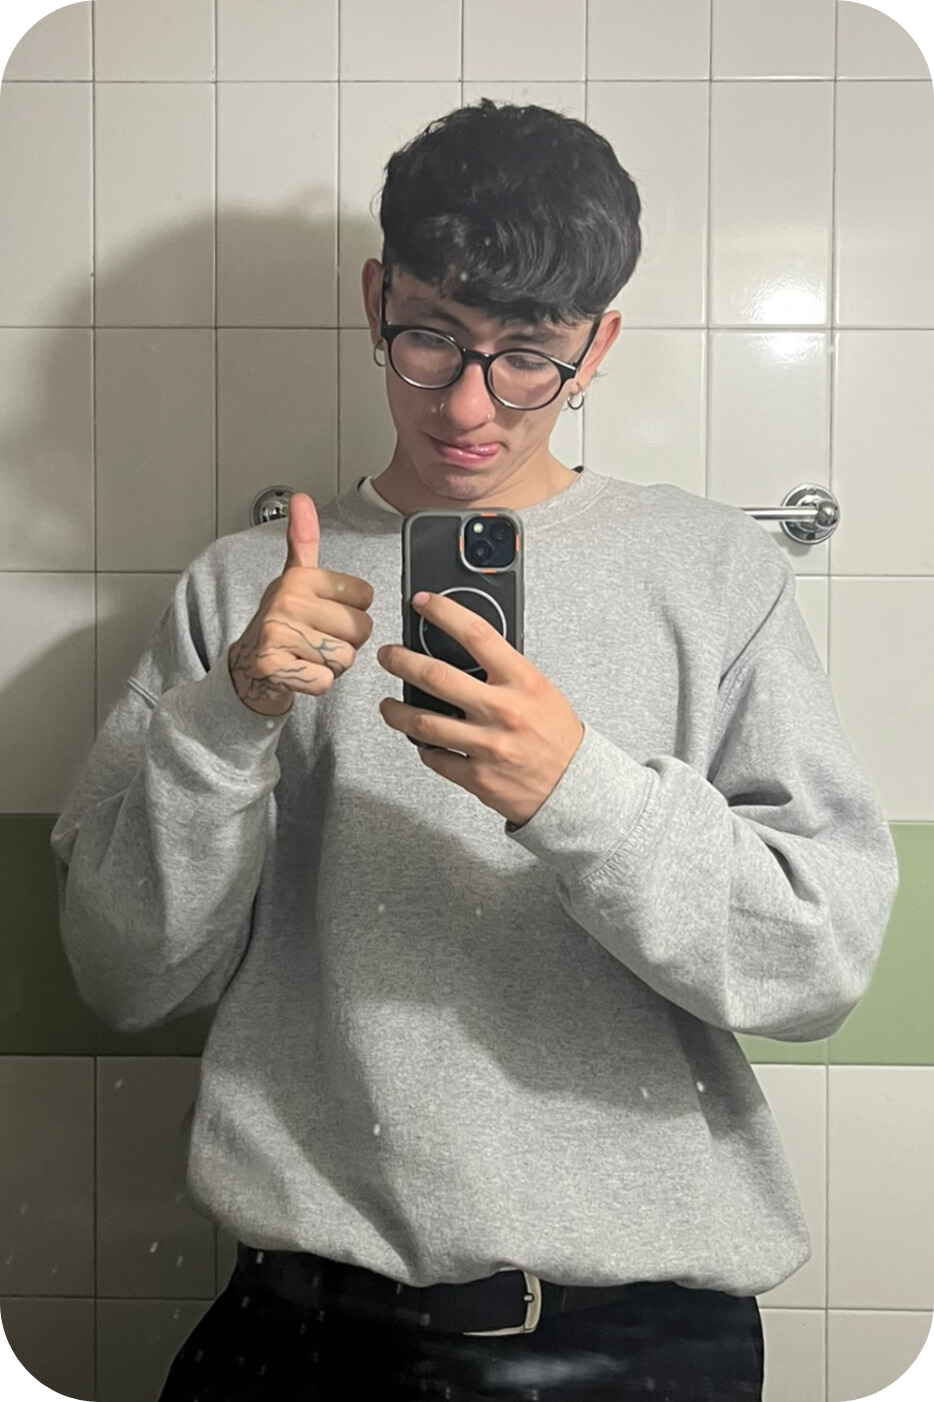
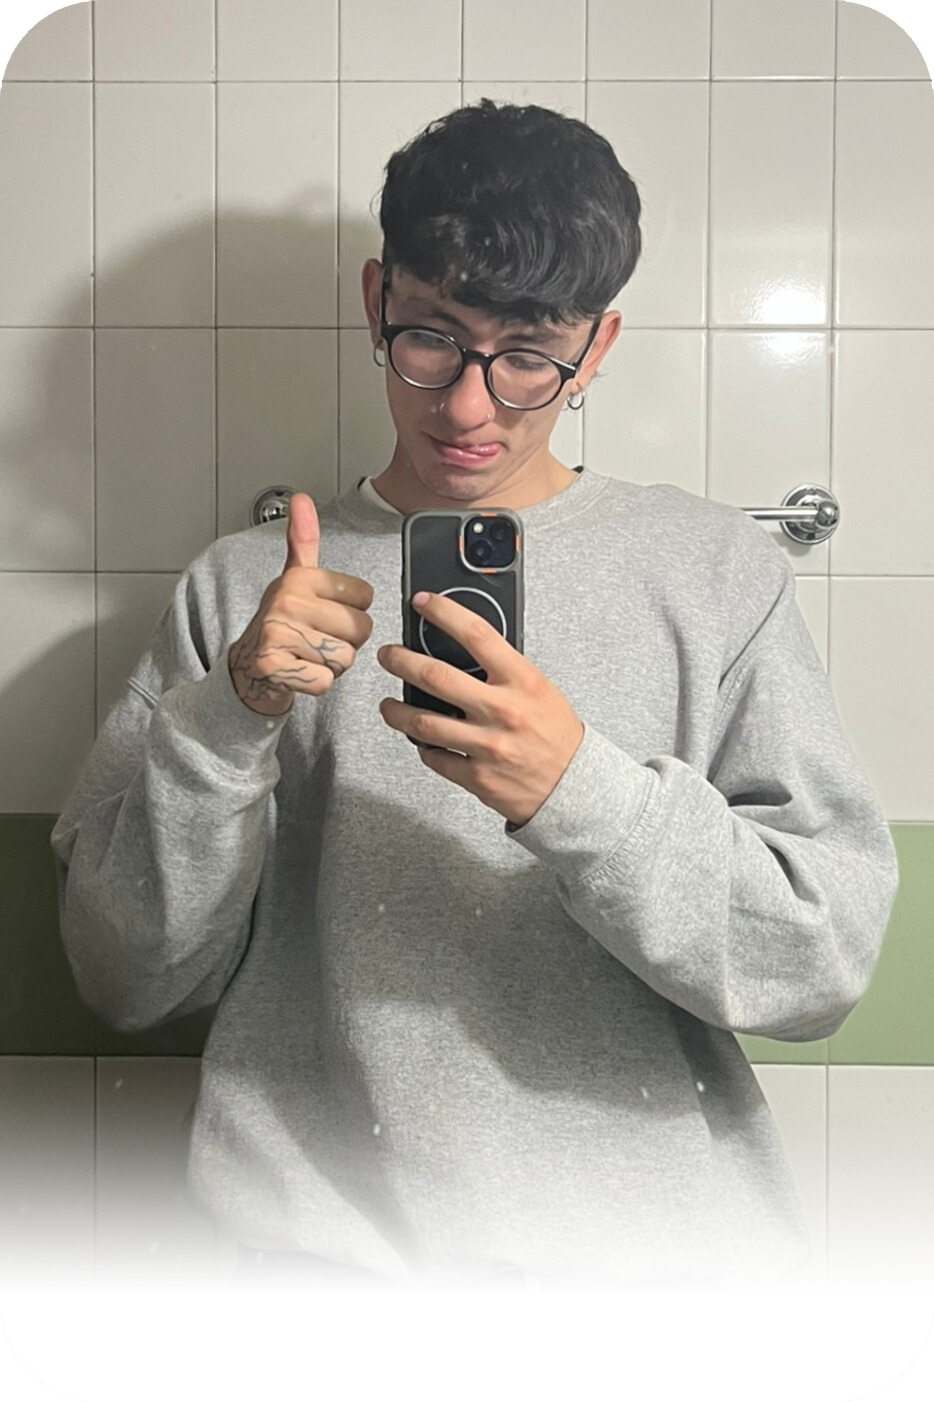
actualizacion foto perfil

Changed region(s): [[0.0, 0.7668, 1.0, 1.0], [0.9936, 0.0307, 1.0, 0.0613]]

diff --git a/components/sections/hero.tsx b/components/sections/hero.tsx
@@ -25,11 +25,11 @@ export default function Hero() {
     return () => clearInterval(interval);
   }, []);
 
-  if (loading) return <div className="text-white font-mono p-10">Cargando telemetría...</div>;
+  if (loading) return <div className="text-black font-mono p-10">Cargando telemetría...</div>;
 
   return (
     <section>
-      <div className="flex place-content-evenly gap-2 align-middle justify-center-safe">
+      <div className="flex place-content-evenly gap-8 align-middle justify-center-safe">
         <div>
             <h2 className="text-4xl">Hola, soy Nicolás</h2>
             <div className="max-w-3xl">
@@ -40,8 +40,8 @@ export default function Hero() {
               <h1>boton we</h1>
             </div>
         </div>
-        <div >
-            <Image src="/img/pic-perfil.png" alt="Foto de perfil" width={500} height={700} />
+        <div className="bg-transparent">
+            <Image className="drop-shadow-xl" src="/img/pic-perfil.png" alt="Foto de perfil" loading="eager" width={500} height={700}/>
         </div>
         <div className="w-s">
           <div>
@@ -49,7 +49,7 @@ export default function Hero() {
           </div>
           <div>
             {data.map((service) => (
-              <div key={service.name} className="p-6 mb-2 border border-slate-800 rounded-2xl bg-slate-900/40">
+              <div key={service.name} className="p-6 mb-2 border border-slate-800 rounded-2xl bg-gray-70 ">
                 <div className="flex items-center justify-between">
                   <h3 className="text-sm font-mono font-bold">{service.name}</h3>
                   <div className={`h-3 w-3 rounded-full ${

diff --git a/app/layout.tsx b/app/layout.tsx
@@ -13,7 +13,7 @@ const geistMono = Geist_Mono({
 });
 
 export const metadata: Metadata = {
-  title: "Create Next App",
+  title: "RadFix Portfolio",
   description: "Generated by create next app",
 };
 
